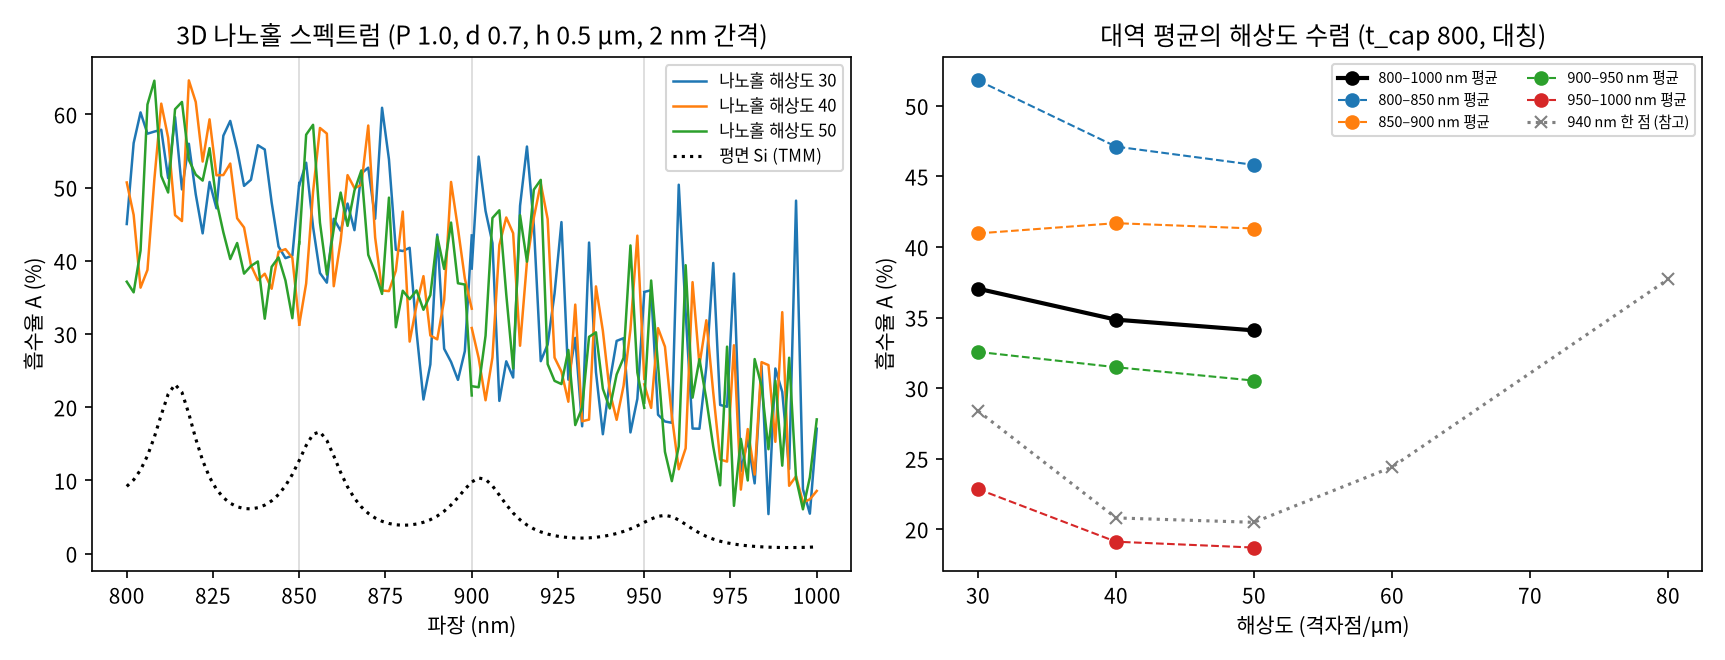
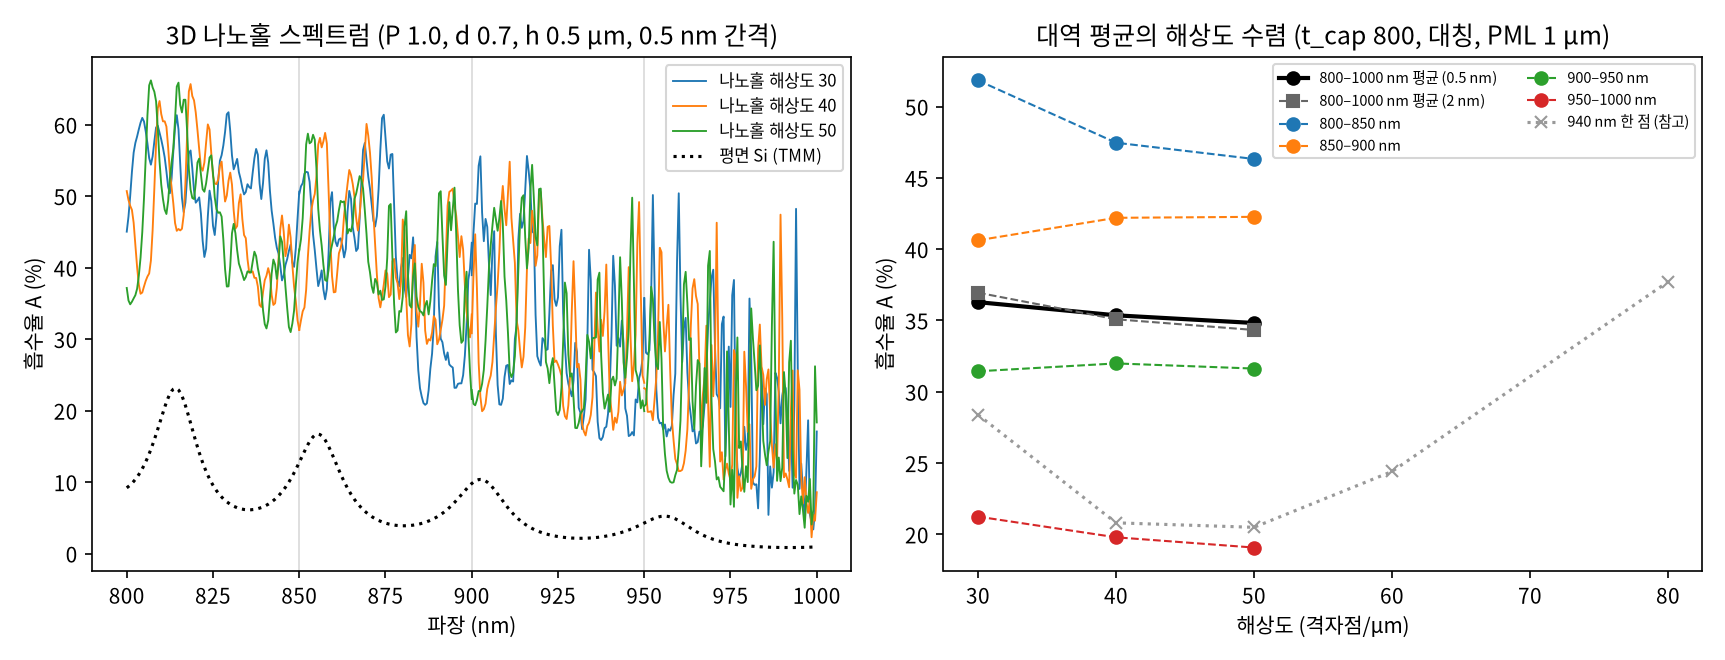
6주차 마무리: 3D PML 2배 테스트, 0.5 nm 샘플링, 대역 평균 수렴표
- PML 1 -> 2 um (res 40, 900-950 nm, 0.5 nm): 구간 평균 차이 7.2e-5, 파장별 최대 1.4e-3 → 통과
- 샘플링 (res 40, 사다리꼴 평균): 2 nm 35.08 %, 1 nm 35.36 %, 0.5 nm 35.36 % → 0.5 nm 사용
- 800-1000 nm 평균 A (0.5 nm): res 30/40/50 = 36.28/35.36/34.82 %, 평면 TMM 6.60 % 대비 5.50/5.36/5.27 배
- nanohole_3d.py --nfreq --dpml, 그림은 사다리꼴 평균 + 0.5 nm 기준

Claude-Session: https://claude.ai/code/session_015GtkaAwvYKBWrQ8YAev8H8

diff --git a/scripts/plot_nanohole_3d_broadband.py b/scripts/plot_nanohole_3d_broadband.py
@@ -1,8 +1,13 @@
 """
-plot_nanohole_3d_broadband.py — 6주차: 3D 나노홀 넓은 대역 스펙트럼 + 대역 평균 해상도 수렴
+plot_nanohole_3d_broadband.py — 6주차: 3D 나노홀 넓은 대역 스펙트럼 + 대역 평균 해상도 수렴 (6주차 최종 그림)
 
-입력 (git 미추적, scripts/nanohole_3d.py --broadband RES 로 재생성): results/week6_nanohole_broadband_res*.csv
-      (선택) results/week6_nanohole_conv_*.csv, week6_nanohole_symcheck_res*_on.csv — 940 nm 한 점 비교용
+입력 (git 미추적, scripts/nanohole_3d.py 로 재생성):
+  0.5 nm (구간당 101점, PML 1 μm): results/week6_nanohole_bbtest_res{30,40,50}_nf101_pml1*.csv  ← 기본 지표
+  2 nm (구간당 26점):              results/week6_nanohole_broadband_res*.csv                     ← 샘플링 비교용
+  PML 2 μm (res 40, 900–950 nm):   results/week6_nanohole_bbtest_res40_nf101_pml2*.csv
+  940 nm 한 점 (파장별 재료):       results/week6_nanohole_conv_*.csv, week6_nanohole_symcheck_res*_on.csv
+대역 평균 = 구간마다 사다리꼴 적분 평균 → 4구간 단순 평균 (구간 폭이 모두 50 nm)
+  샘플링 확인 (res 40): 2 nm 35.08%, 1 nm 35.36%, 0.5 nm 35.36% → 0.5 nm 사용
 출력: figures/fig_week6_nanohole_broadband.png, results/week6_nanohole_band_average.csv (미추적)
 실행: python scripts/plot_nanohole_3d_broadband.py   (MEEP 불필요)
 """
@@ -36,38 +41,55 @@ def set_font():
     plt.rcParams["axes.unicode_minus"] = False
 
 
-def main():
-    set_font()
+def load(pattern):
     by_res = collections.defaultdict(list)
-    for f in glob.glob(os.path.join(ROOT, "results", "week6_nanohole_broadband_res*.csv")):
+    for f in glob.glob(os.path.join(ROOT, "results", pattern)):
         for r in read(f):
             by_res[int(r["resolution"])].append(r)
-    reses = sorted(by_res)
+    return by_res
 
-    # 구간 평균 (구간 경계 파장은 두 구간에 모두 있으므로 구간별로 평균한 뒤 4구간 단순 평균 = 같은 폭 가중)
+
+def band_mean(rows, bi, key="A"):
+    s = sorted([r for r in rows if int(r["band"]) == bi], key=lambda r: float(r["lambda_nm"]))
+    lam = np.array([float(r["lambda_nm"]) for r in s])
+    y = np.array([float(r[key]) for r in s])
+    return float(np.trapezoid(y, lam) / (lam[-1] - lam[0]))
+
+
+def summarize(by_res):
     table = []
-    for res in reses:
+    for res in sorted(by_res):
+        rows = by_res[res]
+        if sorted({int(r["band"]) for r in rows}) != [0, 1, 2, 3]:
+            continue   # 구간이 다 모이지 않은 해상도는 건너뜀
         rec = {"resolution": res}
         for bi in range(4):
-            rs = [r for r in by_res[res] if int(r["band"]) == bi]
-            rec[f"A_band{bi}"] = np.mean([float(r["A"]) for r in rs])
-            rec[f"Aflat_meep_band{bi}"] = np.mean([float(r["A_flat_meep"]) for r in rs])
-            rec[f"Aflat_tmm_band{bi}"] = np.mean([float(r["A_flat_tmm"]) for r in rs])
+            rec[f"A_band{bi}"] = band_mean(rows, bi)
+            rec[f"Aflat_tmm_band{bi}"] = band_mean(rows, bi, "A_flat_tmm")
         rec["A_800_1000"] = np.mean([rec[f"A_band{i}"] for i in range(4)])
-        rec["Aflat_meep_800_1000"] = np.mean([rec[f"Aflat_meep_band{i}"] for i in range(4)])
         rec["Aflat_tmm_800_1000"] = np.mean([rec[f"Aflat_tmm_band{i}"] for i in range(4)])
         rec["enhancement_vs_tmm"] = rec["A_800_1000"] / rec["Aflat_tmm_800_1000"]
         table.append(rec)
-        print(f"res {res}: 대역 평균 A {100*rec['A_800_1000']:.2f}%  (구간 " +
-              " / ".join(f"{100*rec[f'A_band{i}']:.2f}" for i in range(4)) +
-              f")  평면 TMM {100*rec['Aflat_tmm_800_1000']:.2f}%  배율 {rec['enhancement_vs_tmm']:.2f}")
-    out_csv = os.path.join(ROOT, "results", "week6_nanohole_band_average.csv")
-    with open(out_csv, "w", newline="", encoding="utf-8") as fh:
-        w = csv.DictWriter(fh, fieldnames=list(table[0].keys()))
-        w.writeheader()
-        w.writerows(table)
+    return table
 
-    # 940 nm 한 점 (파장별 conductivity 계산) — 비교용
+
+def main():
+    set_font()
+    fine = load("week6_nanohole_bbtest_res*_nf101_pml1*.csv")
+    coarse = load("week6_nanohole_broadband_res*.csv")
+    t_fine, t_coarse = summarize(fine), summarize(coarse)
+    for lab, t in (("0.5 nm", t_fine), ("2 nm", t_coarse)):
+        for rec in t:
+            print(f"[{lab}] res {rec['resolution']}: 대역 평균 A {100*rec['A_800_1000']:.2f}%  (구간 " +
+                  " / ".join(f"{100*rec[f'A_band{i}']:.2f}" for i in range(4)) +
+                  f")  평면 TMM {100*rec['Aflat_tmm_800_1000']:.2f}%  배율 {rec['enhancement_vs_tmm']:.2f}")
+    with open(os.path.join(ROOT, "results", "week6_nanohole_band_average.csv"), "w", newline="", encoding="utf-8") as fh:
+        w = csv.DictWriter(fh, fieldnames=["sampling"] + list(t_fine[0].keys()))
+        w.writeheader()
+        for lab, t in (("0.5nm", t_fine), ("2nm", t_coarse)):
+            for rec in t:
+                w.writerow({"sampling": lab, **rec})
+
     single = {}
     for pat in ("week6_nanohole_symcheck_res*_on.csv", "week6_nanohole_conv_*.csv"):
         for f in glob.glob(os.path.join(ROOT, "results", pat)):
@@ -75,29 +97,33 @@ def main():
                 single[int(r["resolution"])] = 100 * float(r["A"])
 
     fig, ax = plt.subplots(1, 2, figsize=(11.5, 4.4))
-    for res in reses:
+    reses = [rec["resolution"] for rec in t_fine]
+    for k, res in enumerate(reses):
         for bi in range(4):
-            rs = sorted([r for r in by_res[res] if int(r["band"]) == bi], key=lambda r: float(r["lambda_nm"]))
-            ax[0].plot([float(r["lambda_nm"]) for r in rs], [100 * float(r["A"]) for r in rs],
-                       color=f"C{reses.index(res)}", lw=1.2, label=f"나노홀 해상도 {res}" if bi == 0 else None)
-    rs = sorted([r for r in by_res[reses[-1]]], key=lambda r: float(r["lambda_nm"]))
-    ax[0].plot([float(r["lambda_nm"]) for r in rs], [100 * float(r["A_flat_tmm"]) for r in rs], "k:", label="평면 Si (TMM)")
+            s = sorted([r for r in fine[res] if int(r["band"]) == bi], key=lambda r: float(r["lambda_nm"]))
+            ax[0].plot([float(r["lambda_nm"]) for r in s], [100 * float(r["A"]) for r in s],
+                       color=f"C{k}", lw=0.9, label=f"나노홀 해상도 {res}" if bi == 0 else None)
+    s = sorted(fine[reses[-1]], key=lambda r: float(r["lambda_nm"]))
+    ax[0].plot([float(r["lambda_nm"]) for r in s], [100 * float(r["A_flat_tmm"]) for r in s], "k:", label="평면 Si (TMM)")
     for x in (850, 900, 950):
         ax[0].axvline(x, color="0.85", lw=0.8, zorder=0)
     ax[0].set_xlabel("파장 (nm)")
     ax[0].set_ylabel("흡수율 A (%)")
-    ax[0].set_title("3D 나노홀 스펙트럼 (P 1.0, d 0.7, h 0.5 μm, 2 nm 간격)")
+    ax[0].set_title("3D 나노홀 스펙트럼 (P 1.0, d 0.7, h 0.5 μm, 0.5 nm 간격)")
     ax[0].legend(fontsize=8)
 
-    ax[1].plot(reses, [100 * t["A_800_1000"] for t in table], "o-", lw=2, color="k", label="800–1000 nm 평균")
+    ax[1].plot(reses, [100 * t["A_800_1000"] for t in t_fine], "o-", lw=2, color="k", label="800–1000 nm 평균 (0.5 nm)")
+    if t_coarse:
+        ax[1].plot([t["resolution"] for t in t_coarse], [100 * t["A_800_1000"] for t in t_coarse], "s--",
+                   color="0.4", lw=1, label="800–1000 nm 평균 (2 nm)")
     for i in range(4):
-        ax[1].plot(reses, [100 * t[f"A_band{i}"] for t in table], "o--", lw=1, label=f"{BAND_NAMES[i]} nm 평균")
+        ax[1].plot(reses, [100 * t[f"A_band{i}"] for t in t_fine], "o--", lw=1, label=f"{BAND_NAMES[i]} nm")
     if single:
         sr = sorted(r for r in single if r >= 30)
-        ax[1].plot(sr, [single[r] for r in sr], "x:", color="0.5", label="940 nm 한 점 (참고)")
+        ax[1].plot(sr, [single[r] for r in sr], "x:", color="0.6", label="940 nm 한 점 (참고)")
     ax[1].set_xlabel("해상도 (격자점/μm)")
     ax[1].set_ylabel("흡수율 A (%)")
-    ax[1].set_title("대역 평균의 해상도 수렴 (t_cap 800, 대칭)")
+    ax[1].set_title("대역 평균의 해상도 수렴 (t_cap 800, 대칭, PML 1 μm)")
     ax[1].legend(fontsize=7, ncol=2)
     fig.tight_layout()
     out = os.path.join(ROOT, "figures", "fig_week6_nanohole_broadband.png")

diff --git a/scripts/nanohole_3d.py b/scripts/nanohole_3d.py
@@ -131,7 +131,7 @@ def spectrum(si, res, lams):
     return rows
 
 
-def broadband(res, band_ids, nfreq=26):
+def broadband(res, band_ids, nfreq=26, dpml=1.0):
     """
     넓은 대역 모드: Si 를 구간별 분산 재료(data/si_broadband_fit.json)로 넣고 구간당 한 번 실행.
     구간당 nfreq 주파수 (기본 26 = 2 nm 간격). 평면 기준선도 같은 재료·해상도로 작은 셀에서 한 번.
@@ -148,17 +148,17 @@ def broadband(res, band_ids, nfreq=26):
         lam = np.linspace(b["work_nm"][0], b["work_nm"][1], nfreq)
         mat = meep_medium(b)
         t0 = time.time()
-        c = NanoHoleCell3D(P_UM, R_UM, H_UM, T_UM, 1000.0 / lam, res, t_cap=T_CAP, use_symmetry=True)
+        c = NanoHoleCell3D(P_UM, R_UM, H_UM, T_UM, 1000.0 / lam, res, dpml_um=dpml, t_cap=T_CAP, use_symmetry=True)
         R, T, A = c.rta(mat)
         t1 = time.time()
         cf = NanoHoleCell3D(4.0 / res, 0.0, 0.0, T_UM, 1000.0 / lam, res, t_cap=T_CAP)
         Af = cf.rta(mat)[2]
         At = np.array([tmm_normal_incidence(l, [si.N(l)], [T_UM * 1000.0], 1.0, 1.0)[2] for l in lam])
         for i, l in enumerate(lam):
-            rows.append({"mode": "broadband", "resolution": res, "band": bi, "lambda_nm": l,
+            rows.append({"mode": "broadband", "resolution": res, "band": bi, "nfreq": nfreq, "dpml_um": dpml, "lambda_nm": l,
                          "R": R[i], "T": T[i], "A": A[i], "A_flat_meep": Af[i], "A_flat_tmm": At[i],
                          "runtime_s": round(t1 - t0, 1)})
-        print(f"  res {res} 구간 {b['work_nm'][0]:.0f}–{b['work_nm'][1]:.0f} nm: 평균 A {100*A.mean():.2f}%  "
+        print(f"  res {res} 구간 {b['work_nm'][0]:.0f}–{b['work_nm'][1]:.0f} nm (nfreq {nfreq}, PML {dpml} μm): 평균 A {100*A.mean():.2f}%  "
               f"평면 MEEP {100*Af.mean():.2f}% (TMM {100*At.mean():.2f}%)  ({t1-t0:.0f} s)", flush=True)
     return rows
 
@@ -185,6 +185,8 @@ def main():
     ap.add_argument("--lams", type=float, nargs="+", default=None)
     ap.add_argument("--broadband", type=int, help="넓은 대역 모드 해상도 (구간당 1회 실행)")
     ap.add_argument("--bands", type=int, nargs="+", default=[0, 1, 2, 3], help="--broadband 구간 번호 (0: 800–850 … 3: 950–1000)")
+    ap.add_argument("--nfreq", type=int, default=26, help="--broadband 구간당 주파수 수 (26 = 2 nm, 101 = 0.5 nm)")
+    ap.add_argument("--dpml", type=float, default=1.0, help="--broadband z 방향 PML 두께 [μm] (PML 2배 테스트용)")
     ap.add_argument("--tag", default="")
     a = ap.parse_args()
     si = SiOpticalConstants(verbose=False)
@@ -196,7 +198,10 @@ def main():
     if a.conv:
         write_csv(f"week6_nanohole_conv{tag}.csv", conv(si, a.conv))
     if a.broadband:
-        write_csv(f"week6_nanohole_broadband_res{a.broadband}{tag}.csv", broadband(a.broadband, a.bands))
+        name = f"week6_nanohole_broadband_res{a.broadband}"
+        if a.nfreq != 26 or a.dpml != 1.0:   # 기본 조건이 아닌 실행은 파일을 따로 (plot_nanohole_3d_broadband.py 가 섞지 않게)
+            name = f"week6_nanohole_bbtest_res{a.broadband}_nf{a.nfreq}_pml{a.dpml:g}"
+        write_csv(f"{name}{tag}.csv", broadband(a.broadband, a.bands, nfreq=a.nfreq, dpml=a.dpml))
     if a.spectrum:
         lams = a.lams or list(np.arange(800.0, 1000.0 + 1e-9, 20.0))
         write_csv(f"week6_nanohole_spectrum_res{a.spectrum}{tag}.csv", spectrum(si, a.spectrum, lams))
